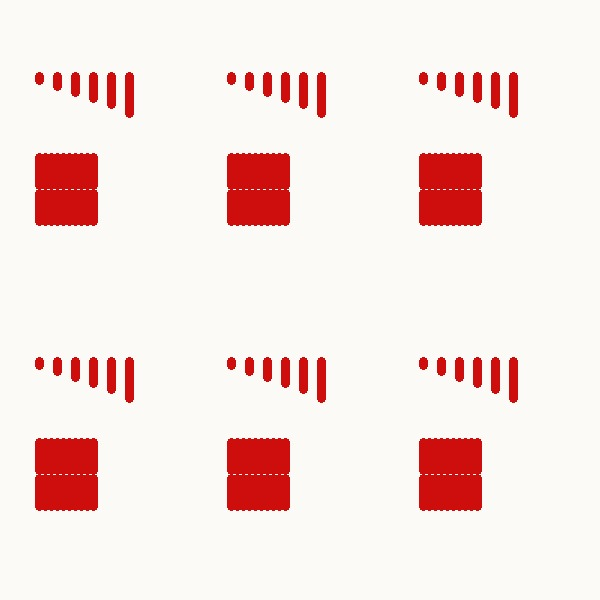
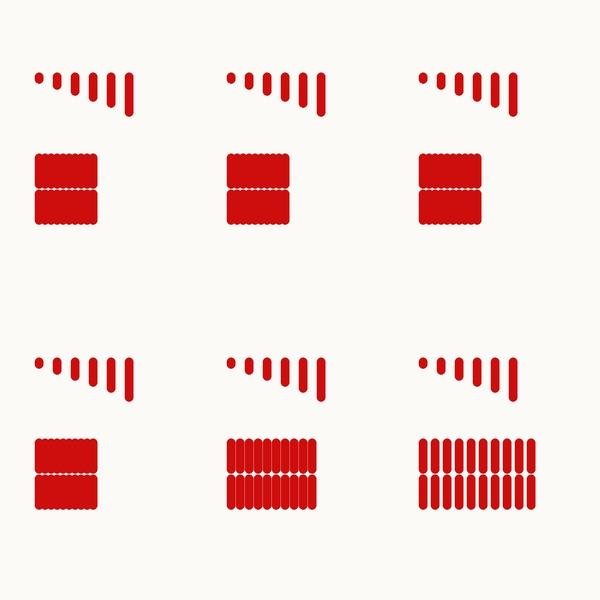
Press test 2 read: the screen laid over the canvas; calibration as a canon
README, GOGH: a dab, 16 (the owner, 2026-11-23: "write the adjustment into the
canon, as a rule of calibration"): TEST, the press test a block a setting, the
whole canvas square on, the overlay; for the 2 mm brush the paint's top at the
screen's, its tail ~14 mm past it, 5-6 mm wide for the screen's 2.2, columns
apart only from ~6 mm. The night's photos (GPS out), the six blocks' overlay.
Blocks 5 and 6's patches 3 and 4 mm apart, as painted; the card's picture redrawn.

diff --git a/GOGH/README.md b/GOGH/README.md
@@ -69,10 +69,39 @@ The first press test (`press-test-20`, Jar 19's cluster six times) broke off at 
 the RUN at 18 mm on 12 mm dabs, every dab of a stack over its neighbour by ≈ 6 mm, the jar at +14. The owner: "just redraw the Press test from zero, with
 legs of different lengths, so we check the length too"; of `IMG_3426`: "what is good in this picture — one can already see which legs it paints".
 `app/gogh/press-lengths-20`: six blocks, each its lone dabs 4 · 6 · 8 · 10 · 12 · 15 mm 6 mm apart and a patch of 10 columns × 2 dabs of 12 mm side by side.
+Its runs, by the journal (`logs/runs.jsonl`) and the owner's pencil on the canvas:
+
+| block | RUN | BRUSH | JAR | what came |
+|---|---|---|---|---|
+| 1 | 18 | +0.5 | 14 | Laid on the first press test's block 1 (x 9–57, y 127–172; this one x 13–43, y 125–176): Claude placed it there, nothing of it to read. |
+| 2 | 18 | +0.5 | 16 | `IMG_3427`: the owner's "best test in GOGH's whole history". |
+| 3 | 18 | +2.0, +1.0 from the 4th dab | 18 the lone dabs (pencil), 17 the patch's columns 2–8, 16 its last two | `IMG_3430`: dry, the paint broken after 15–19 mm, the lengths those of block 2. |
+| 4 | 14 | +0.8 | 14 | `IMG_3431`: neat drops, ≈ 5 mm wide, 18–25 mm. `IMG_3433`: its patch one slab, the columns 2 mm apart too close. |
+| 5 | 14 | +0.8 | 14 | GAP +0.2. Its patch 3 mm apart: still one mass, in two groups (`IMG_3435`). |
+| 6 | 12 | +0.8 | 14 | GAP +0.2. Its patch 4 mm apart: three groups, 4 · 3 · 3 columns (`IMG_3438`). The lone dabs 4 … 10 mm alike, 17 mm: the shortest the machine lays now. |
+
+The owner after block 4: "let us change the spacing of the bottom ones in the fifth and sixth module … they stand too close; the bottom row 1 mm sparser" — blocks 5 and 6's patch columns 3 mm apart (77 … 104, 141 … 168), blocks 1–4 as painted; then, of block 5: "block 6 to 4 mm" (141 … 177).
 
 | file | what it shows |
 |---|---|
 | `IMG_3426.jpg` | The first press test's block 1, 28 dabs, a ruler (cm, upside down) on top: the block ≈ 48 mm wide (50 planned), its right stack of three 12 mm dabs ≈ 56 mm from head to tail, a stack of two ≈ 33 mm — longer by the RUN and the paint's tail. |
+| `IMG_3427.jpg` | Block 2 whole (RUN 18, JAR 16, BRUSH +0.5), block 1 on the old flood to its left, a ruler on top (cm, upside down), ≈ 26 px a mm. The lone dabs 4 · 6 · 8 · 10 mm all ≈ 24 mm long — one way for all four, 15 mm, the floor (minLeg 3 + RUN 3 + 3 + J3 3 + 3) — the 12 ≈ 28 and the 15 ≈ 31 (ways 17.7, 20.7): every dab ≈ 9–10 mm longer than its way, its head ≈ 6 mm wide, glossy, its tail streaked. The patch 22.5 × 41 mm (planned 21 wide, its columns' way 29.7) one even layer, nothing run. Below, TEST BRUSH's stroke (15 mm, no dip): 19 mm, ≈ 2.5 mm wide. The owner: "in fact the best test in GOGH's whole history!" |
+| `Screenshot 2026-11-23 at 1.01.45 AM.png` | The owner's: `IMG_3427`'s block beside GOGH's plan of it, the same scale. |
+| `Movie on 11-23-26 at 12.57 AM.mov` | From the carriage, 57 s, block 2's patch painted: a dab each ≈ 7 s, the columns joining into one layer. 125 MB, kept on this Mac, not in git. |
+| `IMG_3430.jpg` | Block 3, the owner's pencil by it (+1.0°, +16, +18). The lone dabs ≈ 24 · 24 · 24 · 24 · 27 · 31 mm as block 2's, but dry: a glossy head ≈ 3 mm, then dry streaks, a dot at the end. The patch's last two columns (JAR 16) full, those at 17 streaked: the length is the way's, not the paint's. |
+| `IMG_3431.jpg` | Block 4's lone dabs (no ruler; 6 mm apart for a scale): 18.3 · 18.8 · 19.2 · 19.6 · 22.8 · 25 mm for ways 11 · 11 · 11 · 11.7 · 13.7 · 16.7 — every dab its way + 7–9 mm, as blocks 2 and 3; plump, ≈ 5 mm wide, a point at the end, nothing run at JAR 14. |
+| `IMG_3433.jpg` | Block 4 whole: the lone dabs of `IMG_3431` and the patch, ≈ 21 × 32 mm, its ten columns 2 mm apart run into one slab, the first a little apart. |
+| `Movie on 11-23-26 at 1.17 AM.mov` | From the carriage, 69 s, block 5 begun (RUN 14, BRUSH +0.8, JAR 14, GAP +0.2): the whole canvas in view at its end — blocks 1 (on the old flood) … 4, block 5's lone dabs and TEST BRUSH's stroke above them. 151 MB, kept on this Mac, not in git. |
+| `Screenshot 2026-11-23 at 1.20.05 AM.png` | The owner's, from the carriage's camera: block 5's patch, its columns 3 mm apart (the machine stepped 3.0 mm, read off `/run`), still run together — in two groups. |
+| `IMG_3434.jpg` | Blocks 4 and 5 and TEST BRUSH's old stroke above block 5, the canvas's bottom edge. |
+| `IMG_3435.jpg` | Block 5 close, a ruler under it: the lone dabs plump, ≈ 4 mm wide; the patch in two groups, 4 and 6 columns. |
+| `IMG_3436.jpg` | Block 5, a ruler upright by it from the canvas's bottom edge. |
+| `Screenshot 2026-11-23 at 1.23.03 AM.png` | The owner's: block 5's photo beside GOGH's plan of it (RUN 14, GAP +0.2): on the screen ten columns apart, on the canvas two groups. |
+| `Movie on 11-23-26 at 1.29 AM.mov` | From the carriage, 164 s, block 6 painted (RUN 12): a dab, a dip, ≈ 7 s each. 360 MB, kept on this Mac, not in git. |
+| `IMG_3438.jpg` | Block 6 close, a ruler over it, the canvas's bottom-right corner with TEST's taps. |
+| `IMG_3439.jpg` | Block 6 and the canvas's right edge, a ruler upright by it. |
+| `IMG_3441.jpg` | The whole canvas, square on, its four edges in the frame (the owner: "so you do not suffer over the differences; in fact it is not all that bad"; of TEST's taps: "20 cm everywhere in the end"). |
+| `IMG_3441 · six blocks overlay.png` | Claude's: every block, GOGH's screen in blue over the paint in pink (the owner: "all six modules with the overlay — blue the screen, pink the paint on the canvas"). `IMG_3441` laid square by the canvas's edges, 200 × 200 mm, y as they give it; each block's x by its six lone dabs (the photo's perspective off, ±3 mm across the canvas). The adjustment read off it: README, "GOGH: a dab …", 16. |
 
 ## The flood (2026-11-22, the night)
 

diff --git a/README.md b/README.md
@@ -559,6 +559,27 @@ strokes! All of them drops of 2 cm, as on IMG_3377".
     at the first corner, TL twice with its wait, home (`tapRun`). The owner, at once: "now exactly 20 cm" — across Y too, where the strokes had read
     190: the dots' geometry, not the axis.
 
+16. **Calibration: the press test first, the screen laid over the canvas** (the owner, 2026-11-23, the night, after `press-lengths-20` run: "it should
+    have begun with it, not with the bear"; "write the adjustment into the canon, as a rule of calibration — useful for the future"). Before a picture
+    on a new brush, jar or press:
+    1. **TEST** at the canvas's corners (its taps 20 cm apart each way).
+    2. **The press test** (`press-lengths-20`): six blocks, one thing changed a block — RUN, BRUSH or JAR — set in the pause before it, the journal
+       keeping it (`dabs`, `press`, the `jar` events), pencil by the block on the canvas.
+    3. **The whole canvas photographed square on**, its four edges in the frame (`GOGH/IMG_3441.jpg`); a ruler is not needed.
+    4. **The overlay**: GOGH's screen dabs in blue (each block its RUN and GAP, the width 2.2) over the paint in pink, the photo laid by the
+       canvas's edges for y, each block by its six lone dabs for x (`GOGH/IMG_3441 · six blocks overlay.png`).
+    5. **The adjustment read off it** — the 2 mm brush, JAR +14 … +16, BRUSH +0.5 … +0.8, RUN 12 … 18 (blocks 2, 4, 5, 6; block 1 lay on the old
+       flood, block 3 dry at JAR 18):
+       - **the top** where the screen's is, 0 … 3 mm lower (≈ 1.5): the brush lands at the plan's top, J3's early 3 mm in the air;
+       - **the tail ≈ 14 mm past the screen's end** (12 … 15; ≈ 11 for the 15 mm dab): a dab on the canvas the screen's + 12 … 14 mm. The lone
+         dabs 4 · 6 · 8 · 10 mm alike (the floor: FORMG.minLeg 3 + RUN + J3 3 + 3): 17 mm at RUN 12, 19 at RUN 14, 24 at RUN 18; the 15 mm's 22,
+         23, 25 (est.). The RUN moves the length one to one;
+       - **the width ≈ 5 … 6 mm** 4 mm under the top (the screen's 2.2), ≈ 3 at JAR 18;
+       - **columns apart**: 2 and 3 mm one mass, 4 mm in groups of three or four — apart only from ≈ 6 mm, the head's width;
+       - **x**: the dabs where the plan puts them, within ±0.5 mm in a row of six; across the whole canvas not read better than ±3 mm from a photo.
+    6. **GOGH's screen and GEN-V not yet changed by it**: a dab still drawn as the plan's, 2.2 wide — the adjustment theirs when the owner says
+       (paint mechanics: proposed first). GEN-V's 8 … 15 mm dabs of the 2 mm brush come out ≈ 17 … 25 on the canvas.
+
 `src/goghplan.js` (`dabsOf`, `sketchV`, `dabLeg`, `passesV`, `dabRunsOf`, `DAB_UI`, `DAB_BRUSH`, `dabOf`, `fitV`, `dabOnScreen`, `GENV_FORMATS`, `fieldV`, `cardOfSketch`, `idOfSketch`); GOGH's
 page FORM-G's (`formg.js`, `data-tab="gogh"`), GEN-V its generator, as GEN-F FORM-G's.
 

diff --git a/CHANGELOG.md b/CHANGELOG.md
@@ -5,6 +5,13 @@ Machine measurements stay in RUBENS: `../Rubens/CALIBRATION.md`.
 
 ## Unreleased
 
+- **Press test 2 read: the screen laid over the canvas; calibration as a canon** (2026-11-23, the night; the owner: "all six modules with the overlay —
+  blue the screen, pink the paint on the canvas"; "write the adjustment into the canon, as a rule of calibration"; of the test: "it should have begun
+  with it, not with the bear"). README, "GOGH: a dab …", 16: TEST, the press test a block a setting, the whole canvas square on, the overlay, and what it
+  read for the 2 mm brush — the paint's top at the screen's, its tail ≈ 14 mm past it, ≈ 5 … 6 mm wide for the screen's 2.2, columns apart only from
+  ≈ 6 mm; the lone dabs 4 … 10 mm alike, 17 mm at RUN 12. `GOGH/IMG_3441 · six blocks overlay.png`; the night's photos (GPS out) in `GOGH/README.md`.
+  The test's blocks 5 and 6 painted their patches 3 and 4 mm apart (the owner: "the bottom row 1 mm sparser"; "block 6 to 4 mm"), its picture redrawn.
+
 - **Press test 2, lengths** (2026-11-23, the night; the owner: "just redraw the Press test from zero, with legs of different lengths, so we check the
   length too"). `app/gogh/press-lengths-20` in `press-test-20`'s place: six blocks, a line a block; each its lone dabs 4 · 6 · 8 · 10 · 12 · 15 mm 6 mm
   apart and a patch of 10 × 2 dabs of 12 mm side by side; 156 dabs. The first test's block 1 (`GOGH/IMG_3426.jpg`): ≈ 48 mm wide for 50, a stack of
